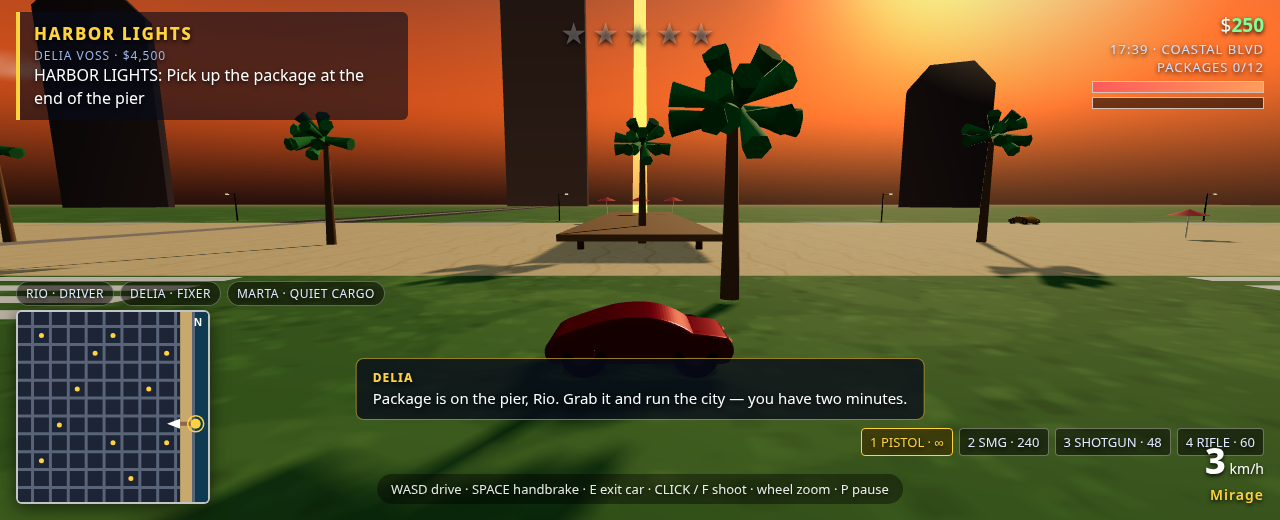
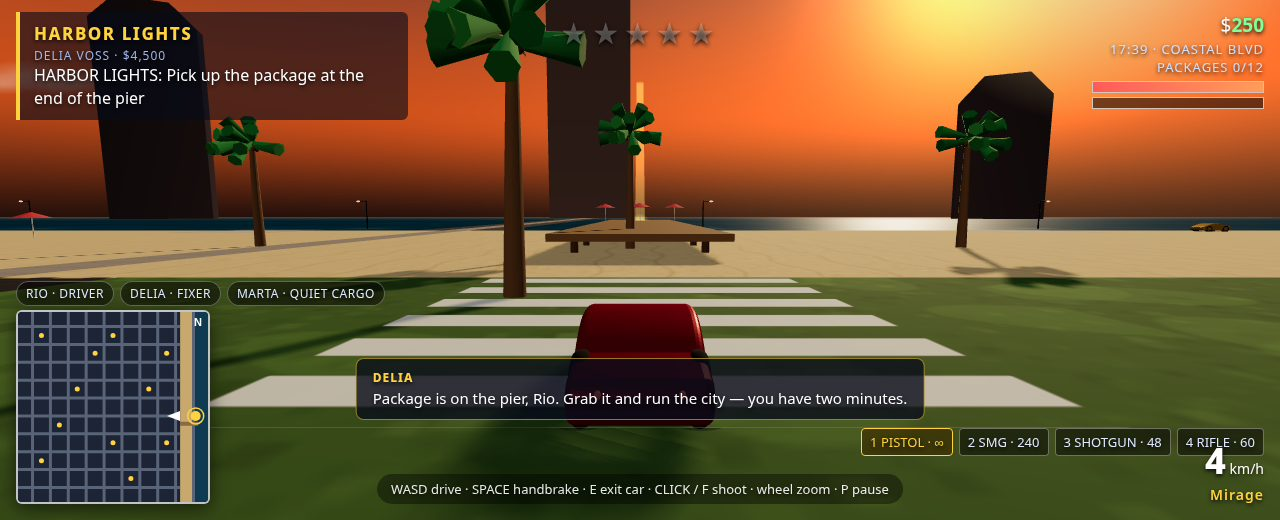
gta6-01 round 10 attempt 5: move office/hideout/packages/van onto roads (no targets inside towers)

diff --git a/game/src/missions.js b/game/src/missions.js
@@ -9,8 +9,8 @@ export const MISSIONS = [
     id: 'm1', title: 'FIRST WHEELS', giver: 'Delia Voss', pay: 800,
     brief: 'Rio, you need wheels before you need work. Get in a car, any car, then bring it to my office.',
     stages: [
-      { type: 'goto', x: 28, z: 60, r: 6, text: 'Get in a car — press E near any ride', needCar: true },
-      { type: 'goto', x: -64, z: -64, r: 8, text: 'Drive to Delia\u2019s office, Downtown' },
+      { type: 'goto', x: 28, z: 32, r: 6, text: 'Get in a car — press E near any ride', needCar: true },
+      { type: 'goto', x: -32, z: -32, r: 8, text: 'Drive to Delia\u2019s office, Downtown' },
     ],
   },
   {
@@ -18,9 +18,9 @@ export const MISSIONS = [
     brief: 'A package is waiting on the pier. Grab it, then run it across the city before the clock dies. Lose the heat, then vanish into the hideout.',
     stages: [
       { type: 'goto', x: 296, z: 32, r: 7, text: 'Pick up the package at the end of the pier' },
-      { type: 'timed', x: -256, z: 192, r: 10, time: 120, text: 'Cross-city run — reach the hideout in 2:00' },
+      { type: 'timed', x: -224, z: 192, r: 10, time: 120, text: 'Cross-city run — reach the hideout in 2:00' },
       { type: 'losewanted', text: 'Lose the heat — stay out of sight until the stars clear' },
-      { type: 'goto', x: -256, z: 192, r: 10, text: 'Slip into the hideout' },
+      { type: 'goto', x: -224, z: 192, r: 10, text: 'Slip into the hideout' },
     ],
   },
   {
@@ -29,7 +29,7 @@ export const MISSIONS = [
     stages: [
       { type: 'goto', x: 296, z: 32, r: 7, text: 'Meet the pier crew' },
       { type: 'kill', x: -192, z: -192, r: 18, count: 4, text: 'Clear the Red Tide crew at the dockyard (4)' },
-      { type: 'goto', x: -64, z: -64, r: 8, text: 'Report back to Delia' },
+      { type: 'goto', x: -32, z: -32, r: 8, text: 'Report back to Delia' },
     ],
   },
   {
@@ -37,7 +37,7 @@ export const MISSIONS = [
     brief: 'Three drops, one clock, no excuses. Hit every checkpoint and the money is yours.',
     stages: [
       { type: 'timed', x: 192, z: -192, r: 9, time: 60, text: 'Checkpoint 1/3 — Coastal north (1:00)' },
-      { type: 'timed', x: 192, z: 192, r: 9, time: 60, text: 'Checkpoint 2/3 — Marina (1:00)' },
+      { type: 'timed', x: 224, z: 192, r: 9, time: 60, text: 'Checkpoint 2/3 — Marina (1:00)' },
       { type: 'timed', x: -192, z: 192, r: 9, time: 60, text: 'Checkpoint 3/3 — Residential west (1:00)' },
     ],
   },
@@ -46,8 +46,8 @@ export const MISSIONS = [
     brief: 'This one is quiet. Escort the courier van across town. If the Bay PD so much as looks at you, the deal is dead.',
     stealth: true,
     stages: [
-      { type: 'goto', x: -64, z: 256, r: 8, text: 'Meet the courier van in Old Town' },
-      { type: 'escort', toX: 192, toZ: 256, text: 'Escort the van to the Marina — stay close, stay clean' },
+      { type: 'goto', x: -32, z: 224, r: 8, text: 'Meet the courier van in Old Town' },
+      { type: 'escort', toX: 192, toZ: 224, text: 'Escort the van to the Marina — stay close, stay clean' },
     ],
   },
   {
@@ -55,7 +55,7 @@ export const MISSIONS = [
     brief: 'The gang thinks the dockyard is theirs. Take it back, then bring me proof.',
     stages: [
       { type: 'kill', x: -192, z: -192, r: 20, count: 6, text: 'Take the dockyard — defeat the Red Tide (6)' },
-      { type: 'goto', x: -64, z: -64, r: 8, text: 'Bring word back to Delia' },
+      { type: 'goto', x: -32, z: -32, r: 8, text: 'Bring word back to Delia' },
     ],
   },
   {
@@ -64,18 +64,18 @@ export const MISSIONS = [
     night: true,
     stages: [
       { type: 'goto', x: 0, z: 96, r: 8, text: 'Pick up the goods in the Entertainment district' },
-      { type: 'timed', x: 192, z: 0, r: 9, time: 75, text: 'Deliver to Coastal Boulevard (1:15)' },
+      { type: 'timed', x: 224, z: 0, r: 9, time: 75, text: 'Deliver to Coastal Boulevard (1:15)' },
     ],
   },
   {
     id: 'm8', title: 'THE VELVET RUN', giver: 'Delia Voss', pay: 12000,
     brief: 'The big one. Hit the vault, hold the dockyard crew off, then run the whole city with the heat on your tail. Pull this off and you own the bay.',
     stages: [
-      { type: 'goto', x: 0, z: -64, r: 8, text: 'Reach the vault, Downtown' },
-      { type: 'kill', x: 0, z: -64, r: 18, count: 5, text: 'Hold off the Red Tide guards (5)' },
+      { type: 'goto', x: 32, z: -64, r: 8, text: 'Reach the vault, Downtown' },
+      { type: 'kill', x: 32, z: -64, r: 18, count: 5, text: 'Hold off the Red Tide guards (5)' },
       { type: 'timed', x: 296, z: 32, r: 9, time: 100, text: 'Run the score to the pier (1:40)' },
       { type: 'losewanted', text: 'Lose the heat' },
-      { type: 'goto', x: -256, z: 192, r: 10, text: 'Vanish into the hideout' },
+      { type: 'goto', x: -224, z: 192, r: 10, text: 'Vanish into the hideout' },
     ],
   },
 ];
@@ -117,13 +117,13 @@ function enterStage(rt, ctx) {
   }
   if (s.type === 'escort') {
     const van = buildCar(0xe8e2d0, {});
-    van.position.set(-64, 0, 256);
+    van.position.set(-32, 0, 224);
     van.rotation.y = Math.PI / 2;
     ctx.scene.add(van);
     rt.van = van;
     rt.vanPath = [
-      { x: 0, z: 256 }, { x: 64, z: 256 }, { x: 128, z: 256 },
-      { x: 192, z: 256 }, { x: 192, z: 256 },
+      { x: 0, z: 224 }, { x: 64, z: 224 }, { x: 128, z: 224 },
+      { x: 192, z: 224 }, { x: 192, z: 224 },
     ];
     rt.vanTarget = 0;
     rt.vanSpeed = 8;

diff --git a/game/src/main.js b/game/src/main.js
@@ -138,10 +138,10 @@ function respawn() {
   police.clearAll();
   state.player.inCar = false;
   state.player.carId = null;
-  state.player.x = -64; state.player.z = -64;
+  state.player.x = -32; state.player.z = -32;
   state.player.heading = Math.PI / 2;
   const car = vehicles.playerCar;
-  car.x = -56; car.z = -64; car.heading = Math.PI / 2; car.speed = 0;
+  car.x = -24; car.z = -32; car.heading = Math.PI / 2; car.speed = 0;
   car.mesh.position.set(car.x, 0, car.z);
   car.mesh.rotation.y = car.heading - Math.PI / 2;
   state.money = Math.max(0, state.money - 200);
@@ -259,7 +259,7 @@ function step(dt) {
   }
   // Start next mission at the office beacon.
   if (!state.mission && input.pressed('enter')) {
-    const d = Math.hypot(state.player.x - (-64), state.player.z - (-64));
+    const d = Math.hypot(state.player.x - (-32), state.player.z - (-32));
     if (d < 9) startNextMission();
   }
   // Pause / music / retry / weapon slots.
@@ -309,7 +309,7 @@ function step(dt) {
   } else {
     // Idle office beacon for the next job.
     const next = nextMissionId(state.missionsDone);
-    city.setBeacon(-64, -64, !!next);
+    city.setBeacon(-32, -32, !!next);
   }
 
   // Hidden package pickup.

diff --git a/game/src/shots.js b/game/src/shots.js
@@ -81,7 +81,7 @@ export function stageShot(mode, ctx) {
     city.applyTimeOfDay('noon');
     state.timeOfDay = 'noon';
     state.clockMinutes = 12 * 60 + 10;
-    putPlayerOnFoot(ctx, 8, 8, Math.PI * 0.85);
+    putPlayerOnFoot(ctx, 20, 44, Math.PI * 0.85);
     seedTraffic(ctx, [
       { x: 24, z: -32, h: 0, speed: 10 },
       { x: -24, z: 32, h: Math.PI, speed: 9 },
@@ -107,7 +107,7 @@ export function stageShot(mode, ctx) {
     state.mission = rt;
     state.missionId = 'm2';
     ctx.hud.say('DELIA', 'Clock is running — 87 seconds to the hideout. Do not stop for anyone.');
-    ctx.city.setBeacon(-256, 192, true);
+    ctx.city.setBeacon(-224, 192, true);
     state.wanted = 2;
     state.wantedHeat = 45;
     state.cameraZoom = 1.0;

diff --git a/game/src/city.js b/game/src/city.js
@@ -340,8 +340,8 @@ export function createCity(scene) {
 
   // --- Hidden packages: 12 glowing pickups ---
   const pkgSpots = [
-    [-256, -256], [-192, 64], [-64, -192], [0, -256], [128, -64], [192, 128],
-    [-256, 192], [64, 256], [-128, -64], [192, -192], [0, 128], [296, 32],
+    [-224, -224], [-160, 32], [-32, -160], [32, -224], [96, -32], [160, 96],
+    [-224, 160], [32, 224], [-96, -32], [160, -160], [-32, 96], [296, 32],
   ];
   for (let i = 0; i < pkgSpots.length; i++) {
     const [px, pz] = pkgSpots[i];

diff --git a/game/src/vehicles.js b/game/src/vehicles.js
@@ -71,7 +71,7 @@ export function createVehicles(scene, state) {
   }
 
   // Player's starting ride + parked cars to steal.
-  const playerCar = spawnCar(28, 60, Math.PI / 2, 'player');
+  const playerCar = spawnCar(28, 32, Math.PI / 2, 'player');
   playerCar.maxSpeed = 38;
   for (let i = 0; i < 16; i++) {
     const p = randomRoadPoint(rng);

diff --git a/game/src/hud.js b/game/src/hud.js
@@ -162,7 +162,7 @@ export function createHud(state, getCtx) {
     } else if (ctx.nextMission) {
       mctx.fillStyle = '#ffd23e';
       mctx.beginPath();
-      mctx.arc(toX(-64), toY(-64), 5, 0, 7);
+      mctx.arc(toX(-32), toY(-32), 5, 0, 7);
       mctx.fill();
     }
     // Police diamonds.

diff --git a/game/src/state.js b/game/src/state.js
@@ -69,7 +69,7 @@ export function createState() {
     musicOn: true,
     muted: false,
     player: {
-      x: 20, z: 60, heading: Math.PI / 2, speed: 0,
+      x: 20, z: 32, heading: Math.PI / 2, speed: 0,
       inCar: false, carId: null, onFoot: true,
     },
     cameraZoom: 1,
